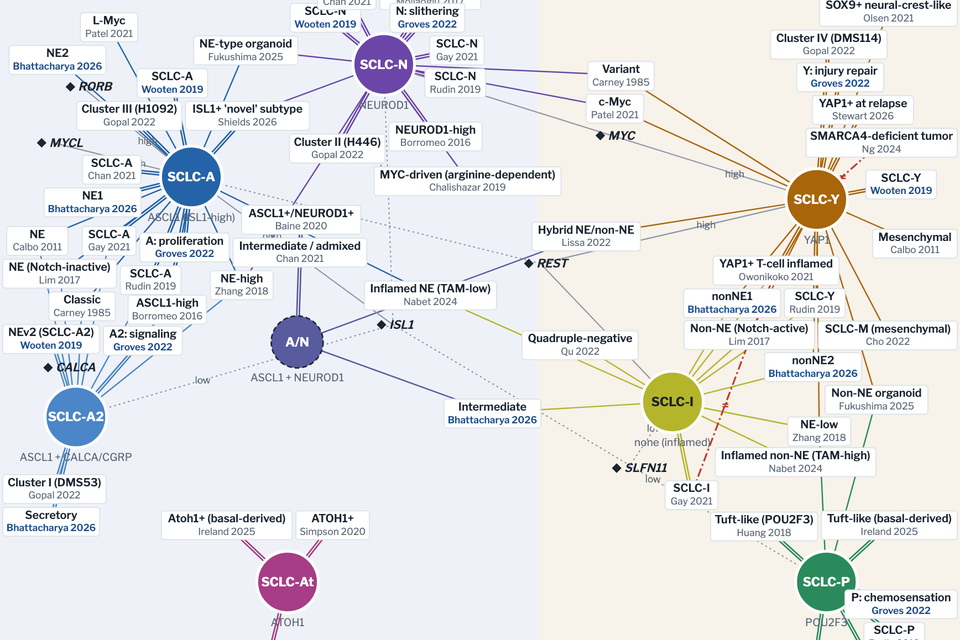
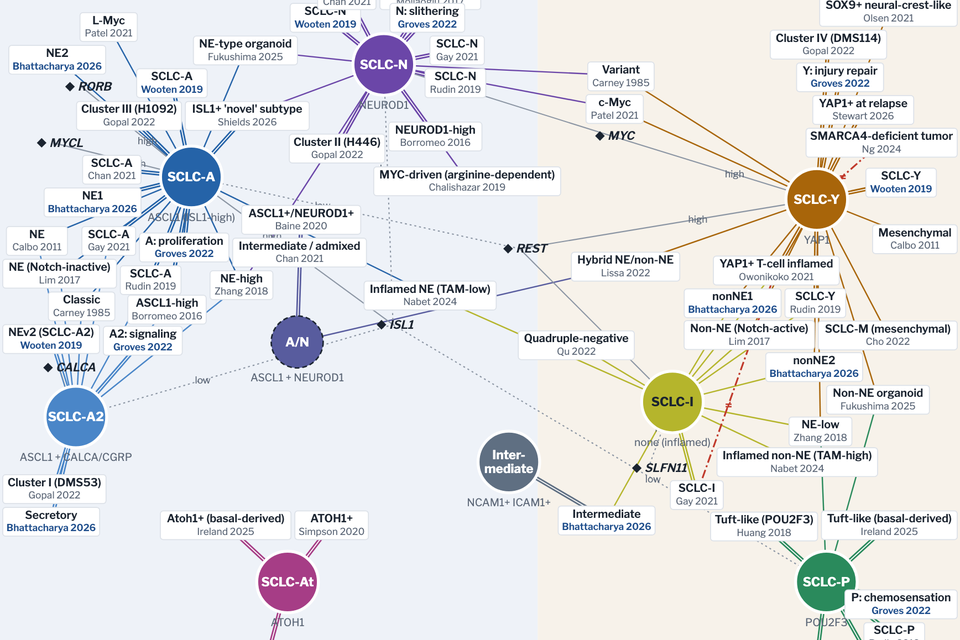
SCLC Subtype Map: Intermediate (NCAM1+ICAM1+) as its own state
Adds an Intermediate circle on the NE/non-NE boundary. Bhattacharya 2026's
Intermediate label maps to it, and the NE <-> Intermediate <-> non-NE
transitions now attach to the circle. Description checked against the
manuscript (mouse scRNA-seq, MIBI and organoids; human evidence is bulk
signature scores only). New table column; thumbnail refreshed.

diff --git a/apps/sclc-subtype-map/data.js b/apps/sclc-subtype-map/data.js
@@ -28,6 +28,9 @@ window.SCLC_MAP = {
     { id: "At", name: "SCLC-At", x: 0.30, y: 0.84, ne: true,
       tf: "ATOH1",
       desc: "ATOH1-high state. First reported in CDX models (Simpson 2020), also seen in metastatic biopsies (Lissa 2022) and as an Atoh1+ state in basal-cell-derived mouse tumors (Ireland 2025). Rare." },
+    { id: "Int", name: "Intermediate", lines: ["Inter-", "mediate"], x: 0.53, y: 0.68, ne: null,
+      tf: "NCAM1+ ICAM1+",
+      desc: "Low-identity, cycling state between the NE and non-NE programs, found in mouse RPR2 tumors (Bhattacharya 2026). Cells co-express the NE marker NCAM1 and the non-NE marker ICAM1, and have high MHC and antigen-presentation genes and strong SCLC-I signature activity. Sorted NCAM1+ICAM1+ cells regenerated NE, non-NE and Intermediate cells in organoids, while NE and non-NE cells did not convert directly, so NE ↔ non-NE switching appears to go through this state. Also seen in RPM/RPMA mouse tumors and in LUAD-to-SCLC transformation; in human tumors the evidence so far is bulk RNA signature scores (112 tumors)." },
     { id: "I",  name: "SCLC-I",  x: 0.70, y: 0.60, ne: false,
       tf: "none (inflamed)",
       desc: "Inflamed subtype defined by Gay et al. 2021: low ASCL1, NEUROD1 and POU2F3 signatures with an inflamed gene signature. Benefits most from adding immunotherapy. YAP1 is higher here but does not define it (Gay 2021); in relapsed biopsies, no SCLC-I biopsy had YAP1+ cells (Stewart 2026)." },
@@ -244,7 +247,7 @@ window.SCLC_MAP = {
         { name: "NE1", data: ["mts"], maps: [["A", "same"]], note: "Ascl1-high NE archetype; NE1 and NE2 differ in the pro-metastatic TF Nfib." },
         { name: "NE2", data: ["mts"], maps: [["A", "partial"]], note: "Ascl1-high NE archetype; NE1 and NE2 differ in Nfib." },
         { name: "Secretory", data: ["mts"], maps: [["A2", "same"]], note: "Closely resembles the human SCLC-A2 archetype." },
-        { name: "Intermediate", data: ["mts", "org"], id: "bhatt-int", maps: [["AN", "partial"], ["I", "partial"]], note: "NCAM1+ICAM1+ low-identity, cycling state between NE and non-NE, with high MHC and antigen-presentation genes and strong SCLC-I signature activity. Sorted double-positive cells regenerated NE, non-NE and Intermediate cells in organoids; NE and non-NE cells did not convert directly. RORB loss pushes NE cells into this state." },
+        { name: "Intermediate", data: ["mts", "org"], id: "bhatt-int", maps: [["Int", "same"], ["I", "partial"]], note: "NCAM1+ICAM1+ low-identity, cycling state between NE and non-NE, with high MHC and antigen-presentation genes and strong SCLC-I signature activity. Sorted double-positive cells regenerated NE, non-NE and Intermediate cells in organoids; NE and non-NE cells did not convert directly. RORB loss pushes NE cells into this state." },
         { name: "nonNE1", data: ["mts"], maps: [["Y", "partial"], ["I", "partial"]], note: "Notch- and Hippo-active non-NE state; SCLC-I signature active." },
         { name: "nonNE2", data: ["mts"], maps: [["Y", "partial"], ["I", "partial"]], note: "Second Notch- and Hippo-active non-NE state; SCLC-I signature active." }
       ] }
@@ -275,7 +278,7 @@ window.SCLC_MAP = {
     { from: "A", to: "I", src: "Gay 2021", doi: "10.1016/j.ccell.2020.12.014", data: ["pdx"], note: "Cisplatin treatment of SCLC-A PDXs shifted tumors toward SCLC-I." },
     { from: "A", to: "N", src: "Gopal 2022", doi: "10.1126/sciadv.abp8674", data: ["cl", "pdx"], bidir: true, note: "Live-cell TF reporters showed bidirectional transitions between states." },
     { from: "N", to: "Y", src: "Gopal 2022", doi: "10.1126/sciadv.abp8674", data: ["cl", "pdx"], bidir: true, note: "Bidirectional; epigenetic drugs changed individual transition rates." },
-    { from: "A", to: "bhatt-int", src: "Bhattacharya 2026", doi: "10.64898/2026.09.26.754526", data: ["mts", "org"], bidir: true, note: "NE cells gave rise to Intermediate cells, which regenerated NE cells (mouse tumor organoids)." },
-    { from: "bhatt-int", to: "Y", src: "Bhattacharya 2026", doi: "10.64898/2026.09.26.754526", data: ["mts", "org"], bidir: true, note: "NE ↔ non-NE switching goes through the Intermediate state rather than directly." }
+    { from: "A", to: "Int", src: "Bhattacharya 2026", doi: "10.64898/2026.09.26.754526", data: ["mts", "org"], bidir: true, note: "NE cells gave rise to Intermediate cells, which regenerated NE cells (mouse tumor organoids)." },
+    { from: "Int", to: "Y", src: "Bhattacharya 2026", doi: "10.64898/2026.09.26.754526", data: ["mts", "org"], bidir: true, note: "NE ↔ non-NE switching goes through the Intermediate state rather than directly." }
   ]
 };

diff --git a/apps/sclc-subtype-map/index.html b/apps/sclc-subtype-map/index.html
@@ -203,14 +203,14 @@ table.rosetta { border-collapse: collapse; font-size: 13px; min-width: 900px; ba
 (function () {
   const D = window.SCLC_MAP;
   const W = 1000, H = 780, NE_SPLIT = 0.56;
-  const COLORS = { A: "#2563a8", A2: "#4a86c8", N: "#6b46a8", AN: "#585c9e", At: "#a63d86", I: "#b5b52c", Y: "#a8650a", P: "#2a8a5c" };
+  const COLORS = { A: "#2563a8", A2: "#4a86c8", N: "#6b46a8", AN: "#585c9e", At: "#a63d86", I: "#b5b52c", Y: "#a8650a", P: "#2a8a5c", Int: "#5f6f82" };
   const DATA_TYPES = {
     htb: "Human tumors, bulk RNA", hts: "Human tumors, single-cell", hti: "Human tumors, IHC/protein", ht: "Human tumors",
     cl: "Human cell lines", pdx: "PDX / CDX models", org: "Organoids",
     mt: "Mouse tumors (GEMM)", mts: "Mouse tumors, single-cell", rev: "Review / synthesis"
   };
   const DT_ORDER = Object.keys(DATA_TYPES);
-  const SINCE = { A: 2016, N: 2016, P: 2018, Y: 2019, A2: 2019, At: 2020, AN: 2020, I: 2021 };
+  const SINCE = { A: 2016, N: 2016, P: 2018, Y: 2019, A2: 2019, At: 2020, AN: 2020, I: 2021, Int: 2026 };
   const stateById = Object.fromEntries(D.states.map(s => [s.id, s]));
   const schemeById = Object.fromEntries(D.schemes.map(s => [s.id, s]));
 
@@ -296,7 +296,9 @@ table.rosetta { border-collapse: collapse; font-size: 13px; min-width: 900px; ba
   nodeSel.filter(d => d.type === "state").each(function (d) {
     const g = d3.select(this);
     g.append("circle").attr("r", d.data.hybrid ? 27 : 32).attr("fill", COLORS[d.id]);
-    g.append("text").attr("class", "nm" + (d.id === "I" ? " dark" : "")).attr("text-anchor", "middle").attr("dy", "0.35em").text(d.data.hybrid ? "A/N" : d.data.name);
+    const nm = g.append("text").attr("class", "nm" + (d.id === "I" ? " dark" : "")).attr("text-anchor", "middle");
+    if (d.data.lines) d.data.lines.forEach((t, i, arr) => nm.append("tspan").attr("x", 0).attr("dy", i === 0 ? `${0.35 - (arr.length - 1) * 0.55}em` : "1.1em").text(t));
+    else nm.attr("dy", "0.35em").text(d.data.hybrid ? "A/N" : d.data.name);
     const tf = g.append("text").attr("class", "tf").attr("text-anchor", "middle").attr("y", d.data.hybrid ? 41 : 46).text(d.data.tf);
     d.bw = Math.max(70, tf.node().getComputedTextLength() + 6); d.bh = 96; d.by = 8;
   });
@@ -499,7 +501,7 @@ table.rosetta { border-collapse: collapse; font-size: 13px; min-width: 900px; ba
         <li>${nodeBtn("shields-isl1", "the ISL1+ subtype (Shields 2026)")}</li>
         <li>${nodeBtn("I", "SCLC-I")} and the contested YAP1 subtype</li>
         <li>${nodeBtn("A2", "SCLC-A2")}, which older schemes merge into SCLC-A</li>
-        <li>${nodeBtn("bhatt-int", "the Intermediate state (Bhattacharya 2026)")}, the route between NE and non-NE</li>
+        <li>${nodeBtn("Int", "the Intermediate state (Bhattacharya 2026)")}, the route between NE and non-NE</li>
       </ul>
       <p class="cite">Turn on <b>State transitions</b> to see reported conversions such as A → N → Y; click an arrow for the evidence.</p>`;
   }
@@ -550,7 +552,7 @@ table.rosetta { border-collapse: collapse; font-size: 13px; min-width: 900px; ba
       const tr = D.transitions.filter(t => t.from === id || t.to === id)
         .map(transLi).join("");
       h = `<h3><span class="swatch" style="background:${COLORS[id]}"></span>${esc(s.name)}</h3>
-        <p class="sub">${esc(s.tf)} · ${s.ne ? "neuroendocrine" : "non-neuroendocrine"}</p>
+        <p class="sub">${esc(s.tf)} · ${s.ne === null ? "between NE and non-NE" : s.ne ? "neuroendocrine" : "non-neuroendocrine"}</p>
         <p>${esc(s.desc)}</p>
         ${foundIn(id)}
         ${mk ? `<h2>Markers</h2><p>${mk}</p>` : ""}
@@ -641,7 +643,7 @@ table.rosetta { border-collapse: collapse; font-size: 13px; min-width: 900px; ba
   });
 
   // ---------- table ----------
-  const COLS = ["A", "A2", "N", "AN", "At", "I", "Y", "P"];
+  const COLS = ["A", "A2", "N", "AN", "At", "Int", "I", "Y", "P"];
   const tbl = document.getElementById("rosetta");
   let th = `<thead><tr><th>Paper</th><th>Data</th>${COLS.map(c => `<th><span class="swatch" style="background:${COLORS[c]}"></span>${stateById[c].name}</th>`).join("")}</tr></thead><tbody>`;
   [...D.schemes].sort((a, b) => a.year - b.year).forEach(sc => {
